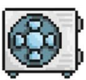
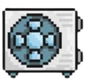
Fix some assets, begin formatting for upgrades

Changed region(s): [[0.0233, 0.075, 0.9767, 1.0]]

diff --git a/index.html b/index.html
@@ -57,21 +57,12 @@
 
         </header>
 
-            <div class="oil-sell-panel" id="oil-sell-panel">
-            <div class="oil-price-row">
-                Current Price/Oil:
-                <span id="oil-price-value">$78.50</span>
-            </div>
-
-            <button id="sell-oil-btn" class="sell-oil-btn">
-                Sell All Oil
-            </button>
         </div>
 
         <!-- ------------ UPGRADES PANEL ---------------- -->
          <aside class="upgrades-panel" id="upgrades-panel">
             <button class="upgrades-toggle" id="upgrades-toggle" type="button" aria-label = "Toggle Upgrades Panel">></button>
-            <div class="upgrades-content"></div>
+            <div class="upgrades-content" id="upgrades-content"></div>
         </aside>
 
         <!-- ------------ SPINNY WHEEL + RIG --------------- -->